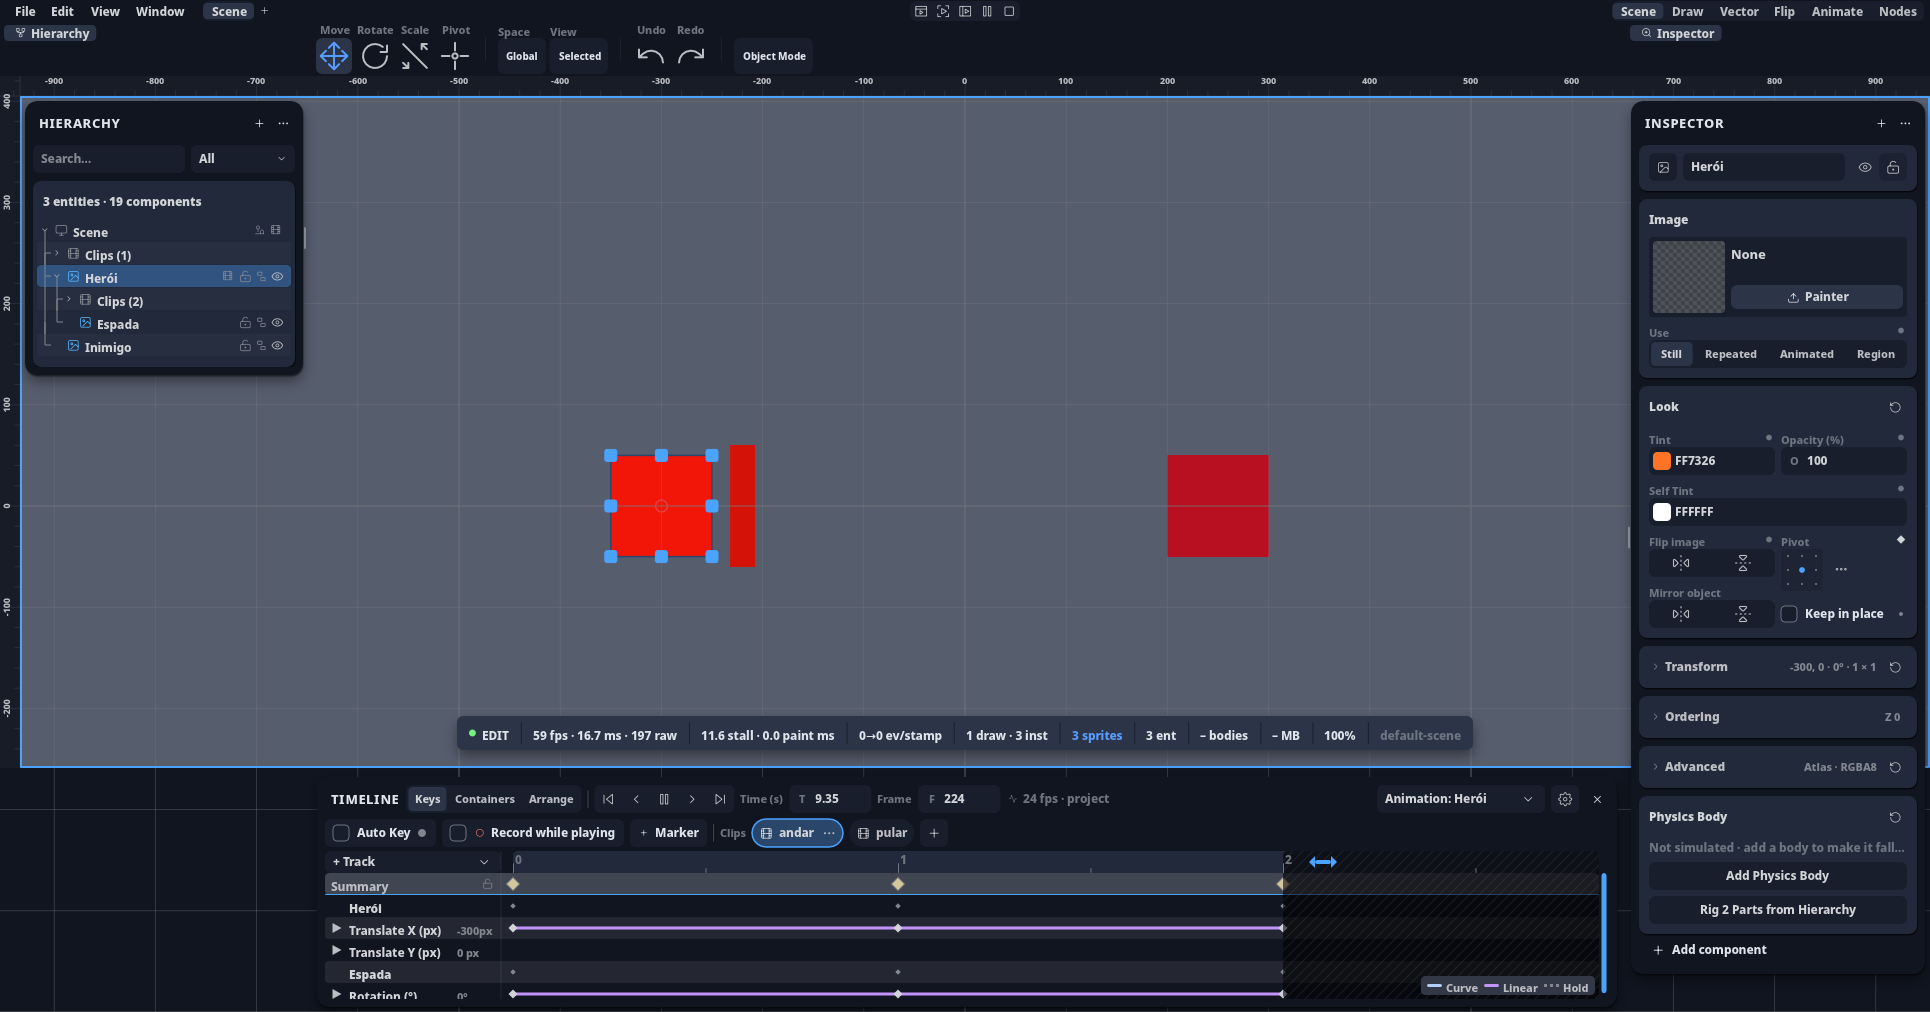
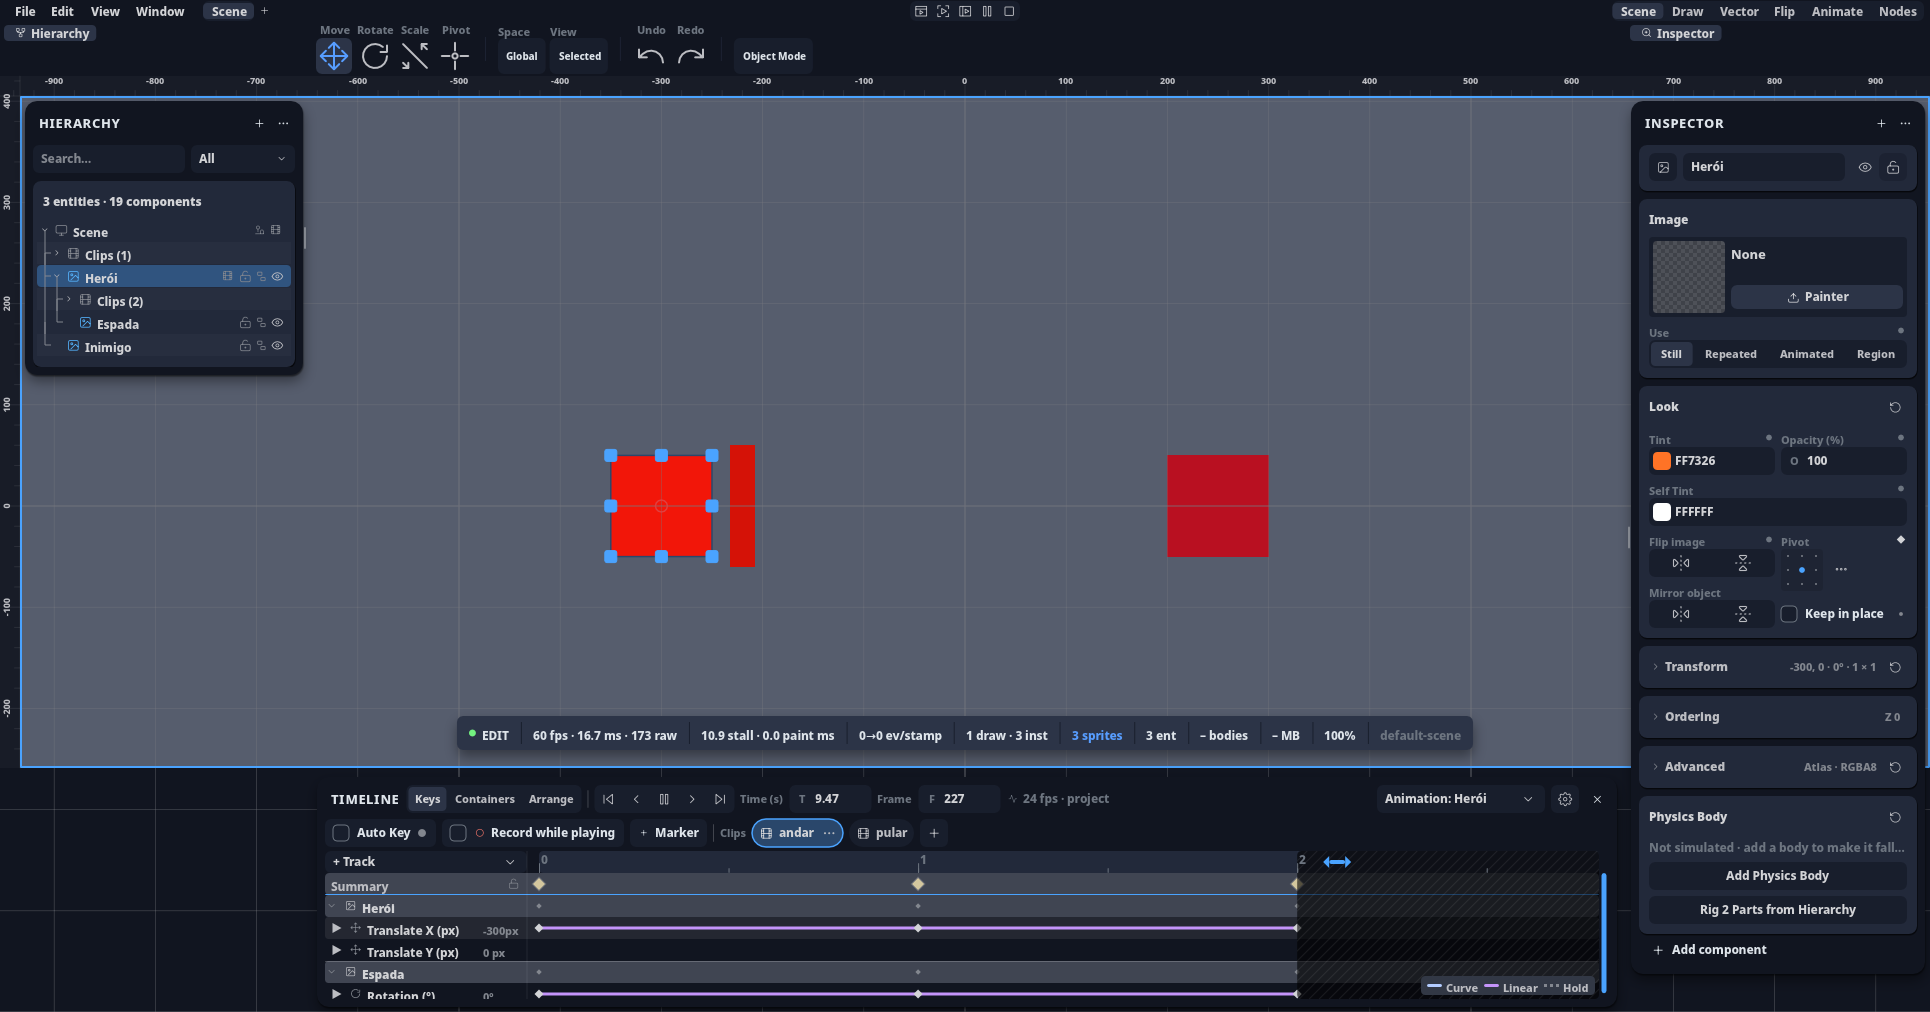
feat(timeline): onda 2c — o cabeçalho do objeto com cara própria (molde B1)
- linhas::fundo_da_linha: TimelineObjectRow (apelido de Bg3) de ponta a ponta; fio BorderStrong antes de cada objeto
- ▾ só pintado (não existe id/evento de recolher objeto); ícone do tipo da Hierarquia via hier::declare_in_row
  (mapa publica_icone/icone_do_objeto, sem linha nova na shell)
- faixas com ícone da propriedade (Move/Rotate/Scale/CardOpacity); piso da coluna nos cartões min_arvore_label_w
- teste o_cabecalho_do_objeto_tem_fundo_e_icones_proprios

Changed region(s): [[0.1554, 0.8271, 0.8083, 1.0]]

diff --git a/crates/ph2d-panel-timeline/src/linhas.rs b/crates/ph2d-panel-timeline/src/linhas.rs
@@ -12,6 +12,7 @@
 
 use std::collections::BTreeMap;
 
+use ph2d_editor_core::icons::IconId;
 use ph2d_editor_core::interaction::{InteractiveState, TimelineHitKind, TrackMenuKind};
 use ph2d_editor_core::paint::{paint_text_elided, resolve};
 use ph2d_editor_core::panel::PaintCtx;
@@ -332,6 +333,54 @@ pub(crate) fn paint_grupo(
     }
 }
 
+/// A espessura do fio entre dois objectos.
+const DIVISORIA_H: f32 = ph2d_editor_core::panel::cards::banda::SEPARADOR_W;
+/// O lado de um ícone da coluna de nomes (o do texto inline).
+pub(crate) const ICONE_PX: f32 = ph2d_tokens::INLINE_ICON_PX;
+
+/// ⭐ **O fundo de uma linha** (doc 15 onda 2): o cabeçalho do objecto tem o seu, um degrau acima
+/// da zebra, de ponta a ponta (nomes e fita); as faixas alternam. Exposto ao teste do estilo.
+pub(crate) fn fundo_da_linha(l: Linha, n: usize) -> Option<ColorToken> {
+    match l {
+        Linha::Objeto(_) => Some(ColorToken::TimelineObjectRow),
+        _ if n % 2 == 1 => Some(ColorToken::TimelineRowAlt),
+        _ => None,
+    }
+}
+
+/// O ícone da propriedade na faixa (o mesmo glifo do gizmo: mover, rodar, escalar), ou nenhum.
+pub(crate) fn icone_da_propriedade(p: PropKind) -> Option<IconId> {
+    match p {
+        PropKind::TranslationX | PropKind::TranslationY | PropKind::Position => Some(IconId::Move),
+        PropKind::Rotation => Some(IconId::Rotate),
+        PropKind::ScaleX | PropKind::ScaleY => Some(IconId::Scale),
+        PropKind::Opacity => Some(IconId::CardOpacity),
+        _ => None,
+    }
+}
+
+/// A largura que um ícone (ou nenhum) ocupa antes do texto.
+pub(crate) fn icone_w(i: Option<IconId>) -> f32 {
+    i.map_or(0.0, |_| ICONE_PX + Spacing::Xs.px())
+}
+
+/// Um ícone da coluna de nomes, a começar em `x`, centrado na altura da linha `y`.
+pub(crate) fn paint_icone(
+    ctx: &mut PaintCtx,
+    theme: Theme,
+    ic: IconId,
+    (x, y): (f32, f32),
+    tok: ColorToken,
+) {
+    ph2d_editor_core::paint::paint_icon(
+        ctx.scene,
+        ic,
+        Rect::new(x, y + (ROW_H_PX - ICONE_PX) * 0.5, ICONE_PX, ICONE_PX),
+        resolve(tok, theme),
+        ph2d_tokens::StrokeToken::Default.px(),
+    );
+}
+
 /// O losango do cabeçalho do objecto: metade do da faixa (a maquete B1 pinta-o como um ponto).
 const OBJ_DIAMOND_H: f32 = DIAMOND_H * 0.6; // LITERAL-PX-OK: fraction of the row diamond
 /// A espessura da barra entre duas chaves (maquete B1: 3 px numa linha de 22).
@@ -352,15 +401,36 @@ pub(crate) fn paint_objeto(
     linha: (u64, f32),
 ) {
     let (entity, y) = linha;
+    let x = geo.rows.x;
+    // O fio que separa um objecto do de cima (não no primeiro, que encosta no Summary).
+    if y > geo.rows.y + ROW_H_PX {
+        ph2d_editor_core::paint::fill_rounded_rect(
+            ctx.scene,
+            Rect::new(x, y, geo.rows.w, DIVISORIA_H),
+            0.0,
+            resolve(ColorToken::BorderStrong, theme),
+        );
+    }
+    // ▾ só marca o grupo: não há gesto de recolher um objecto (nenhum id/evento), então é pintura.
+    paint_icone(ctx, theme, IconId::ChevronDown, (x, y), ColorToken::Text3);
+    let ic = crate::hier::icone_do_objeto(entity);
+    paint_icone(
+        ctx,
+        theme,
+        ic,
+        (x + TWIRL_W * 0.5 + ICONE_PX * 0.5, y),
+        ColorToken::Text2,
+    );
+    let tx = x + TWIRL_W * 0.5 + icone_w(Some(ic)) + ICONE_PX * 0.5;
     let font = TypeToken::Sm.px();
     ph2d_editor_core::paint::paint_text_title_elided(
         ctx.text_system,
         ctx.scene,
         &crate::tracks::objeto_snap(snap, entity),
-        geo.rows.x + TWIRL_W,
+        tx,
         y + (ROW_H_PX - font) * 0.5,
         font,
-        (geo.label_w - TWIRL_W - Spacing::Xs.px()).max(0.0),
+        (x + geo.label_w - tx - Spacing::Xs.px()).max(0.0),
         resolve(ColorToken::Text1, theme),
     );
     let cy = y + ROW_H_PX * 0.5;

diff --git a/crates/ph2d-panel-timeline/src/tracks.rs b/crates/ph2d-panel-timeline/src/tracks.rs
@@ -163,14 +163,9 @@ pub(crate) fn paint_rows(
         if y + h <= region.y || y >= bottom {
             continue;
         }
-        // Zebra so lanes read as discrete rows.
-        if n % 2 == 1 {
-            fill_row(
-                ctx,
-                theme,
-                Rect::new(region.x, y, region.w, ROW_H_PX),
-                ColorToken::TimelineRowAlt,
-            );
+        // Zebra so lanes read as discrete rows; o cabeçalho do objecto tem o fundo dele.
+        if let Some(tok) = crate::linhas::fundo_da_linha(b.linha, n) {
+            fill_row(ctx, theme, Rect::new(region.x, y, region.w, ROW_H_PX), tok);
         }
         let (i, grupo) = match b.linha {
             Linha::Grupo(gi) => {
@@ -187,7 +182,13 @@ pub(crate) fn paint_rows(
         };
         let track = &snap.tracks[i];
         // Um membro de um grupo aberto recua uma coluna, sob o ▶ do grupo.
+        // Nos cartões a faixa recua sob o cabeçalho do objecto, e leva o ícone da propriedade.
         let x0 = region.x + if grupo.is_some() { TWIRL_W } else { 0.0 };
+        let icone = if arvore {
+            crate::linhas::icone_da_propriedade(track.prop)
+        } else {
+            None
+        };
         let t = track.target.get();
         let twirl = TimelineHitKind::Twirl { target: t };
         let open = state.is_expanded(t);
@@ -243,8 +244,15 @@ pub(crate) fn paint_rows(
             snap,
             track,
             (&text, color),
-            (x0 + TWIRL_W, region.x + label_w, y),
+            (
+                x0 + TWIRL_W + crate::linhas::icone_w(icone),
+                region.x + label_w,
+                y,
+            ),
         );
+        if let Some(ic) = icone {
+            crate::linhas::paint_icone(ctx, theme, ic, (x0 + TWIRL_W, y), ColorToken::Text3);
+        }
         if arvore {
             crate::linhas::paint_barras(ctx, theme, track, view, preview_dx, y);
         }

diff --git a/crates/ph2d-panel-timeline/src/linhas_tests.rs b/crates/ph2d-panel-timeline/src/linhas_tests.rs
@@ -388,3 +388,53 @@ fn as_tres_barras_leem_se_diferentes_nos_oito_temas() {
     }
     eprintln!("pior distancia entre barras: {pior:.3}");
 }
+
+/// ⭐ Dono 09/11 (smoke da onda 2): a linha do OBJECTO tem cara própria — fundo de ponta a ponta
+/// diferente das duas cores da zebra das propriedades, em todo tema; ícone do tipo vindo da
+/// Hierarquia; propriedades com o ícone do gizmo.
+#[test]
+fn o_cabecalho_do_objeto_tem_fundo_e_icones_proprios() {
+    use ph2d_editor_core::icons::IconId;
+    use ph2d_tokens::Theme;
+    let cab = |n| fundo_da_linha(Linha::Objeto(9), n);
+    let faixa = |n| fundo_da_linha(Linha::Faixa { i: 0, grupo: None }, n);
+    for n in [0, 1] {
+        assert_eq!(cab(n), Some(ColorToken::TimelineObjectRow));
+        assert_ne!(cab(n), faixa(n));
+    }
+    for t in [
+        Theme::Forge,
+        Theme::Workshop,
+        Theme::Sunstone,
+        Theme::Blueprint,
+        Theme::Dark,
+        Theme::Gray,
+        Theme::Light,
+        Theme::Oled,
+    ] {
+        let c = resolve(ColorToken::TimelineObjectRow, t).to_rgba8();
+        for outro in [ColorToken::TimelineRowAlt, ColorToken::PanelBg] {
+            assert_ne!(
+                c,
+                resolve(outro, t).to_rgba8(),
+                "{t:?}: cabeçalho igual a {outro:?}"
+            );
+        }
+    }
+    assert_eq!(
+        icone_da_propriedade(PropKind::TranslationX),
+        Some(IconId::Move)
+    );
+    assert_eq!(
+        icone_da_propriedade(PropKind::Rotation),
+        Some(IconId::Rotate)
+    );
+    assert_eq!(icone_da_propriedade(PropKind::ScaleY), Some(IconId::Scale));
+    assert_eq!(
+        crate::hier::icone_do_objeto(424_242),
+        IconId::Cube,
+        "sem declaração: objecto vazio"
+    );
+    crate::hier::publica_icone(424_242, IconId::Sprite);
+    assert_eq!(crate::hier::icone_do_objeto(424_242), IconId::Sprite);
+}

diff --git a/crates/ph2d-panel-timeline/src/hier.rs b/crates/ph2d-panel-timeline/src/hier.rs
@@ -10,6 +10,26 @@ use ph2d_editor_core::screens::hero::PANEL_TIMELINE;
 use ph2d_editor_core::screens::hero::fixture::HierarchyEntity;
 use ph2d_timeline::{SCENE, TimelineState};
 
+thread_local! {
+    /// O ícone do TIPO de cada objecto, tal como a Hierarquia o mostra (F42) — a Timeline pinta-o no
+    /// cabeçalho do objecto (doc 15 onda 2) sem segunda resposta: a fonte é a mesma linha.
+    static ICONES: std::cell::RefCell<std::collections::BTreeMap<u64, IconId>> =
+        const { std::cell::RefCell::new(std::collections::BTreeMap::new()) };
+}
+
+/// Grava o ícone do tipo de `bits` (chamado por [`declare_in_row`]; os testes chamam-no direto).
+#[doc(hidden)]
+pub fn publica_icone(bits: u64, icon: IconId) {
+    ICONES.with(|m| m.borrow_mut().insert(bits, icon));
+}
+
+/// O ícone do tipo de `bits`, ou o do objecto vazio quando a Hierarquia ainda não o declarou.
+pub(crate) fn icone_do_objeto(bits: u64) -> IconId {
+    ICONES
+        .with(|m| m.borrow().get(&bits).copied())
+        .unwrap_or(IconId::Cube)
+}
+
 /// O grupo *Clips (n)* da animação de `owner` ([`SCENE`] = a da Cena), ou `None` sem clips. A
 /// `key` de cada peça é o índice do clip no documento; a activa é a que a Timeline edita.
 #[must_use]
@@ -37,6 +57,7 @@ pub fn clips_content(timeline: &TimelineState, owner: u64) -> Option<ContentGrou
 /// **Declara a Animação na linha de `bits`**: o ícone da família e o grupo de clips — nada, se o
 /// objecto não tem Animação.
 pub fn declare_in_row(timeline: &TimelineState, bits: u64, entry: &mut HierarchyEntity) {
+    publica_icone(bits, entry.icon);
     if bits == SCENE {
         return;
     }

diff --git a/crates/ph2d-panel-timeline/src/geom.rs b/crates/ph2d-panel-timeline/src/geom.rs
@@ -105,6 +105,18 @@ pub(crate) const MIN_LABEL_W: f32 = 56.0; // LITERAL-PX-OK: min track-name colum
 /// there, this is it.
 pub(crate) const MIN_LANE_LABEL_W: f32 = 148.0; // LITERAL-PX-OK: lane controls (94) + a name
 
+/// O texto mais largo da faixa nos cartões, «Translate X (px)»: 16 caracteres a `TypeToken::Sm`.
+const NOME_ARVORE_W: f32 = 112.0; // LITERAL-PX-OK: 16 chars at TypeToken::Sm, measured on the smoke photo
+/// ⭐ O piso da coluna de nomes na árvore dos cartões (doc 15 onda 2): ▶ + ícone da propriedade + o
+/// nome inteiro + o valor — o dono viu «Translate…» cortado e a coluna existe para o ler.
+fn min_arvore_label_w() -> f32 {
+    crate::tracks::TWIRL_W
+        + crate::linhas::ICONE_PX
+        + NOME_ARVORE_W
+        + crate::tracks_value::VALUE_W
+        + ph2d_tokens::Spacing::Xs.px() * 3.0
+}
+
 /// What the label column may not go below, given what it currently holds.
 ///
 /// **What it holds is what the TAB shows.** The lane controls that force the wider
@@ -122,6 +134,8 @@ pub(crate) const MIN_LANE_LABEL_W: f32 = 148.0; // LITERAL-PX-OK: lane controls 
 pub(crate) fn min_label_w(_snap: &TimelineViewSnapshot, tab: Tab) -> f32 {
     if tab.shows_lanes() {
         MIN_LANE_LABEL_W
+    } else if ph2d_editor_core::panel::cards::ferramenta::cards_on() {
+        min_arvore_label_w()
     } else {
         MIN_LABEL_W
     }

diff --git a/crates/ph2d-tokens/src/color.rs b/crates/ph2d-tokens/src/color.rs
@@ -458,6 +458,7 @@ color_tokens! {
     #[doc = "`timeline-interp-linear` — dope-sheet bar after a linear key."] TimelineInterpLinear => "timeline-interp-linear",
     #[doc = "`timeline-interp-hold` — dashed dope-sheet bar after a hold key."] TimelineInterpHold => "timeline-interp-hold",
     #[doc = "`timeline-record` — the sheet's border while Auto Key records."] TimelineRecord => "timeline-record",
+    #[doc = "`timeline-object-row` — an object's header row across names and lanes."] TimelineObjectRow => "timeline-object-row",
 
     // ── Esqueleto ──────────────────────────────────────────────────
     /// ⭐⭐⭐ `bone-handle` — **as alças de curvatura do osso que dobra**, e a razão de ele existir

diff --git a/crates/ph2d-tokens/src/color_alias.rs b/crates/ph2d-tokens/src/color_alias.rs
@@ -47,6 +47,8 @@ pub(crate) const fn parent_of(t: ColorToken) -> Option<ColorToken> {
         | ColorToken::TimelineSummaryRing => ColorToken::Accent,
         ColorToken::TimelineHandleLine | ColorToken::TimelineLoopRegion => ColorToken::AccentSoft,
         ColorToken::TimelineRowAlt | ColorToken::TimelineRulerBg => ColorToken::Bg2,
+        // O cabeçalho do objecto (doc 15 onda 2): um degrau acima da zebra das propriedades.
+        ColorToken::TimelineObjectRow => ColorToken::Bg3,
         ColorToken::TimelineMarker | ColorToken::TimelineSummaryKey => ColorToken::Warn,
         ColorToken::TimelineKeyActive => ColorToken::AccentPress,
         ColorToken::TimelineMissing | ColorToken::TimelineRecord => ColorToken::Danger,

diff --git a/crates/ph2d-tokens/src/skin_body.rs b/crates/ph2d-tokens/src/skin_body.rs
@@ -264,6 +264,7 @@ impl ColorToken {
             | T::TimelineInterpLinear
             | T::TimelineInterpHold
             | T::TimelineRecord
+            | T::TimelineObjectRow
             | T::BoneHandle
             | T::ShapeHandle
             | T::Person0

diff --git a/docs/Timeline/handoffs/HANDOFF_CONTINUACAO_TimelinePrincipal_2026-11-09_ONDA2.md b/docs/Timeline/handoffs/HANDOFF_CONTINUACAO_TimelinePrincipal_2026-11-09_ONDA2.md
@@ -81,6 +81,8 @@ Testes por nome desta rodada: `linhas` 16 ✓ · `tracks_value` 6 ✓ · `scroll
 `ph2d-tokens color` 17 ✓ · i18n `ordenad`/`known_keys`/`a_text_key`/`honesto` ✓; crate inteira 300 + 161 ✓. Clippy
 `-D warnings` limpo em `ph2d-panel-timeline`, `ph2d-editor-core`, `ph2d-tokens`, `ph2d-i18n`; fmt; smoke compilado.
 
+- **2c (dono 09/11, cabeçalho do objecto):** fundo próprio de ponta a ponta (token `TimelineObjectRow` → `Bg3`, via `linhas::fundo_da_linha`), fio `BorderStrong` antes de cada objecto, ▾ SÓ PINTADO (não há id/evento de recolher objecto), ícone do tipo lido do `entry.icon` da Hierarquia em `hier::declare_in_row` (mapa `hier::publica_icone`/`icone_do_objeto`, sem linha nova na shell; `Cube` até a Hierarquia declarar), ícone por propriedade (`Move`/`Rotate`/`Scale`/`CardOpacity`), piso da coluna nos cartões `geom::min_arvore_label_w` (nomes inteiros); teste `o_cabecalho_do_objeto_tem_fundo_e_icones_proprios`; crate 301 + 162 ✓; `color.rs` 699/700.
+
 ## Superfície de colisão
 
 `ph2d-panel-timeline`: `linhas.rs`, `tracks.rs`, `tracks_label.rs`, `tracks_value.rs`, `paint.rs`, `ruler.rs`, `state.rs`,
